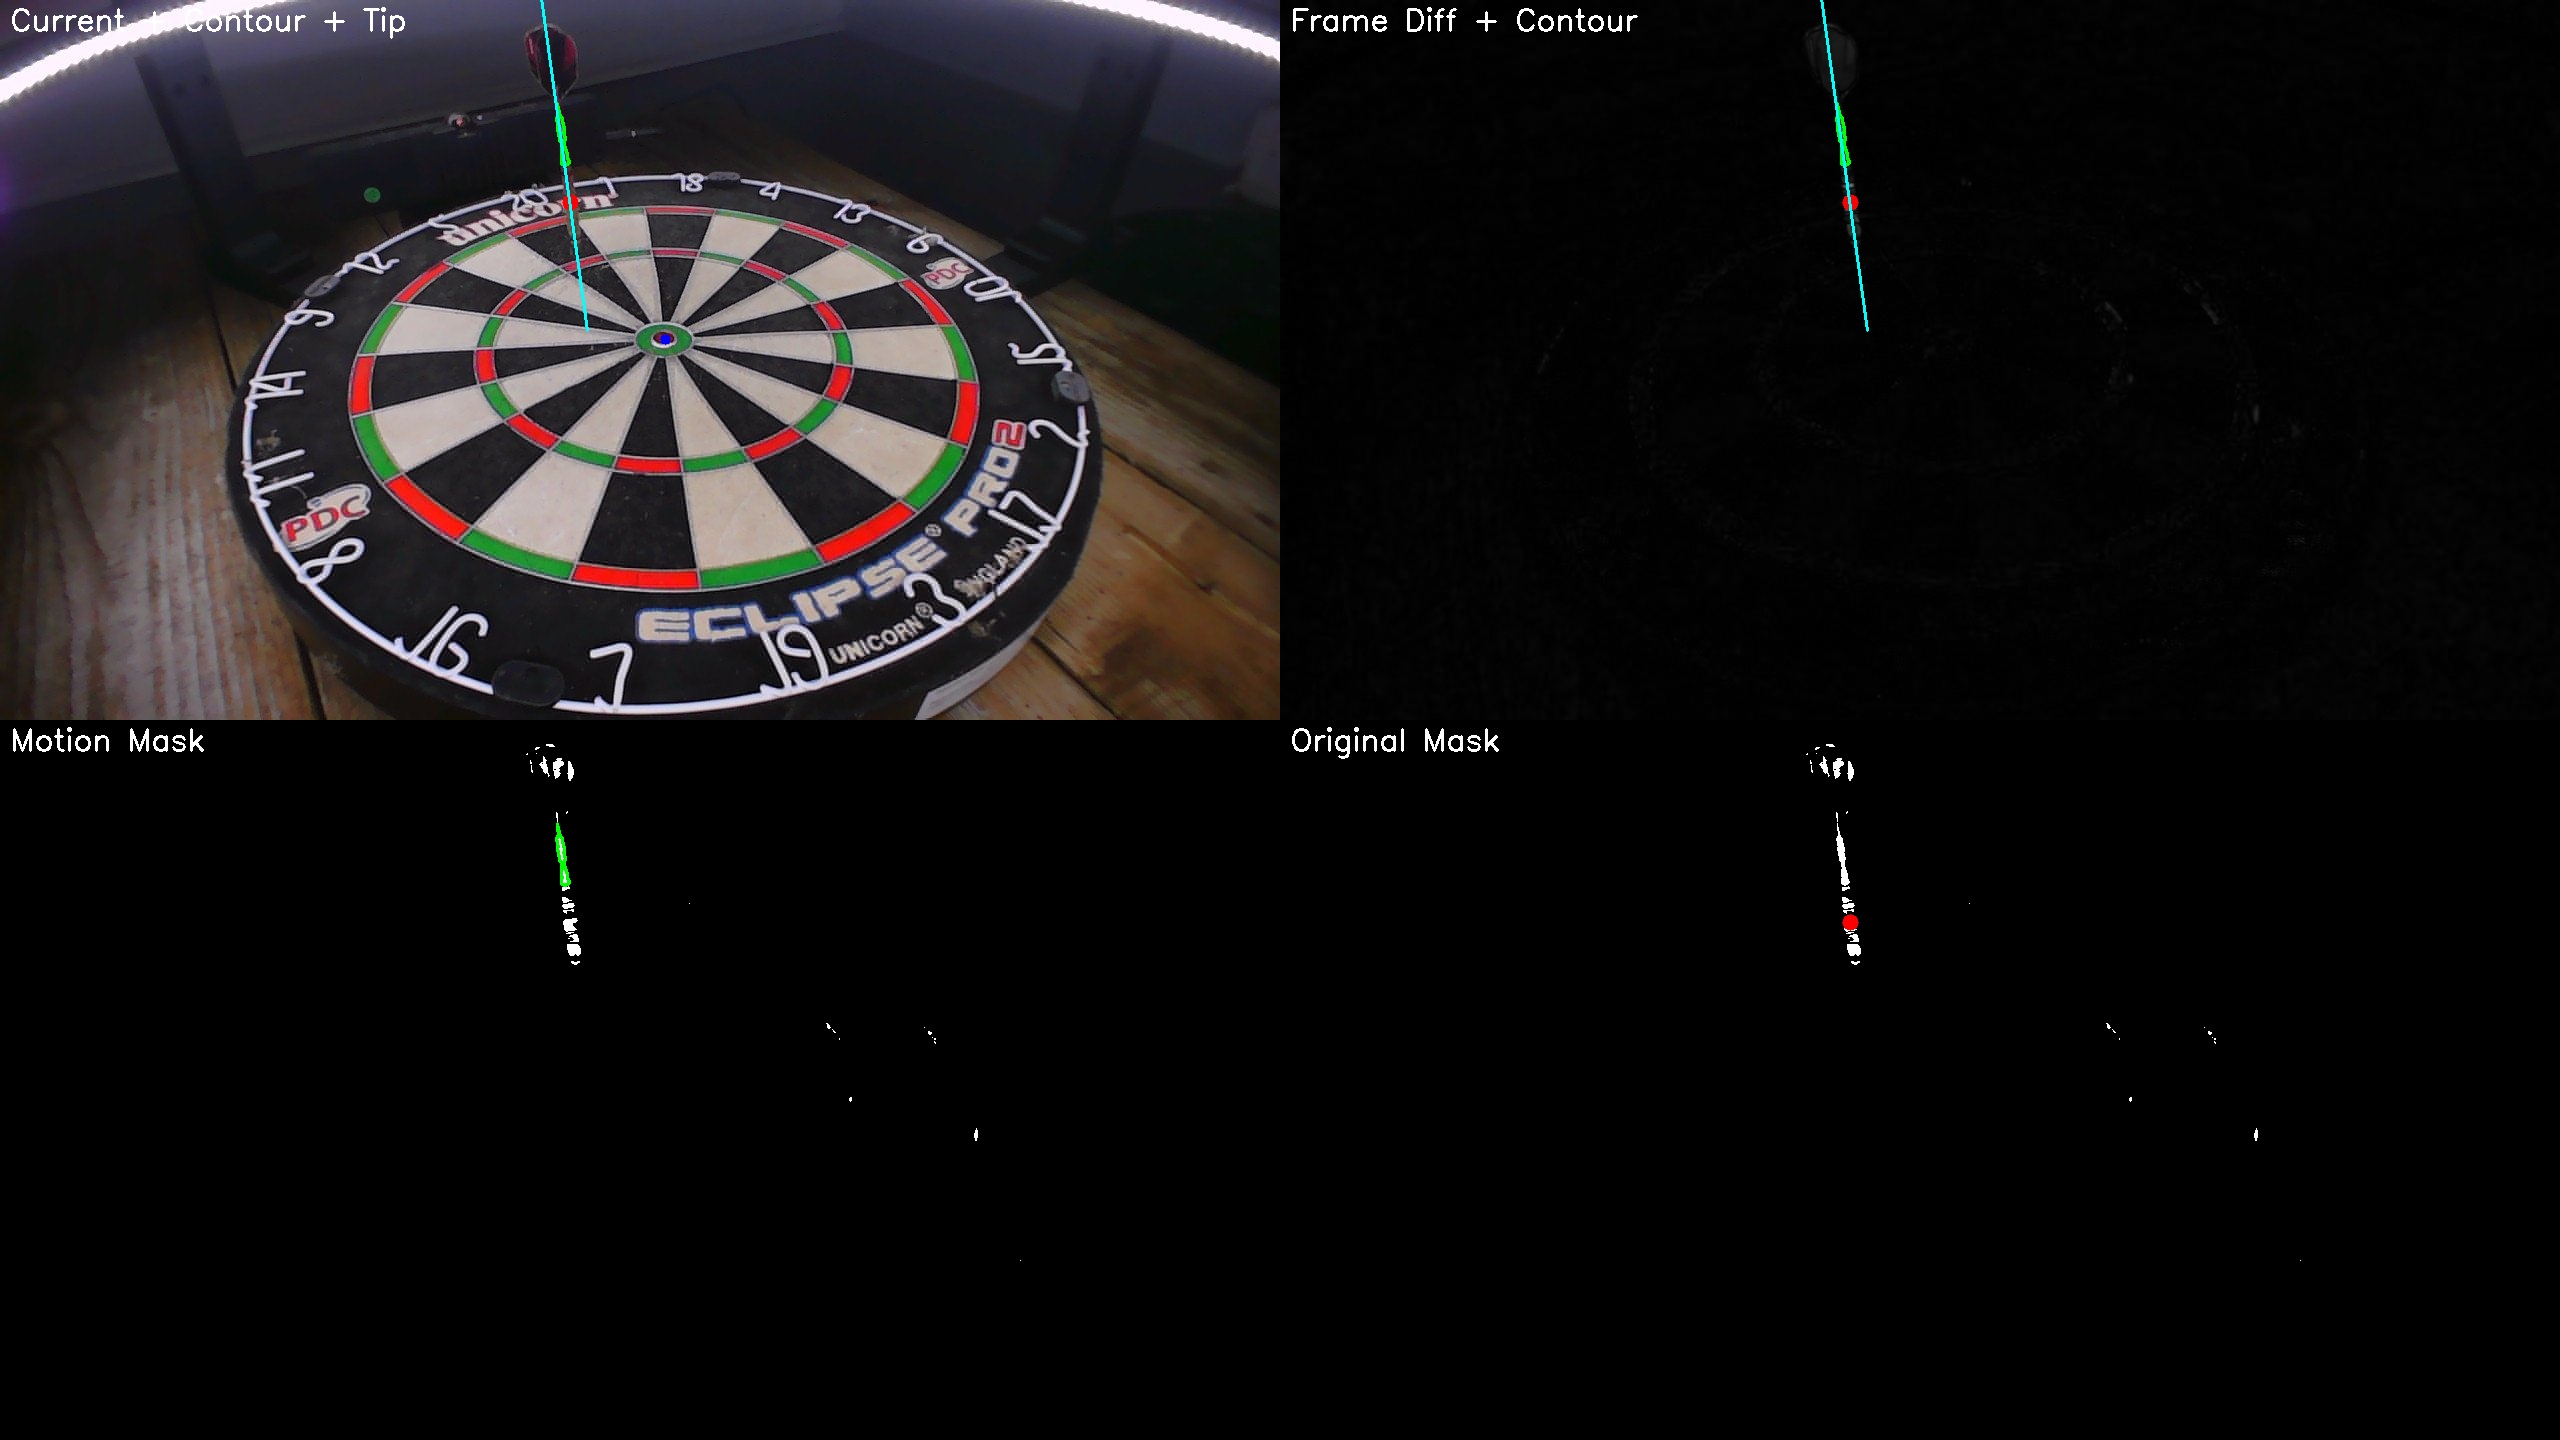
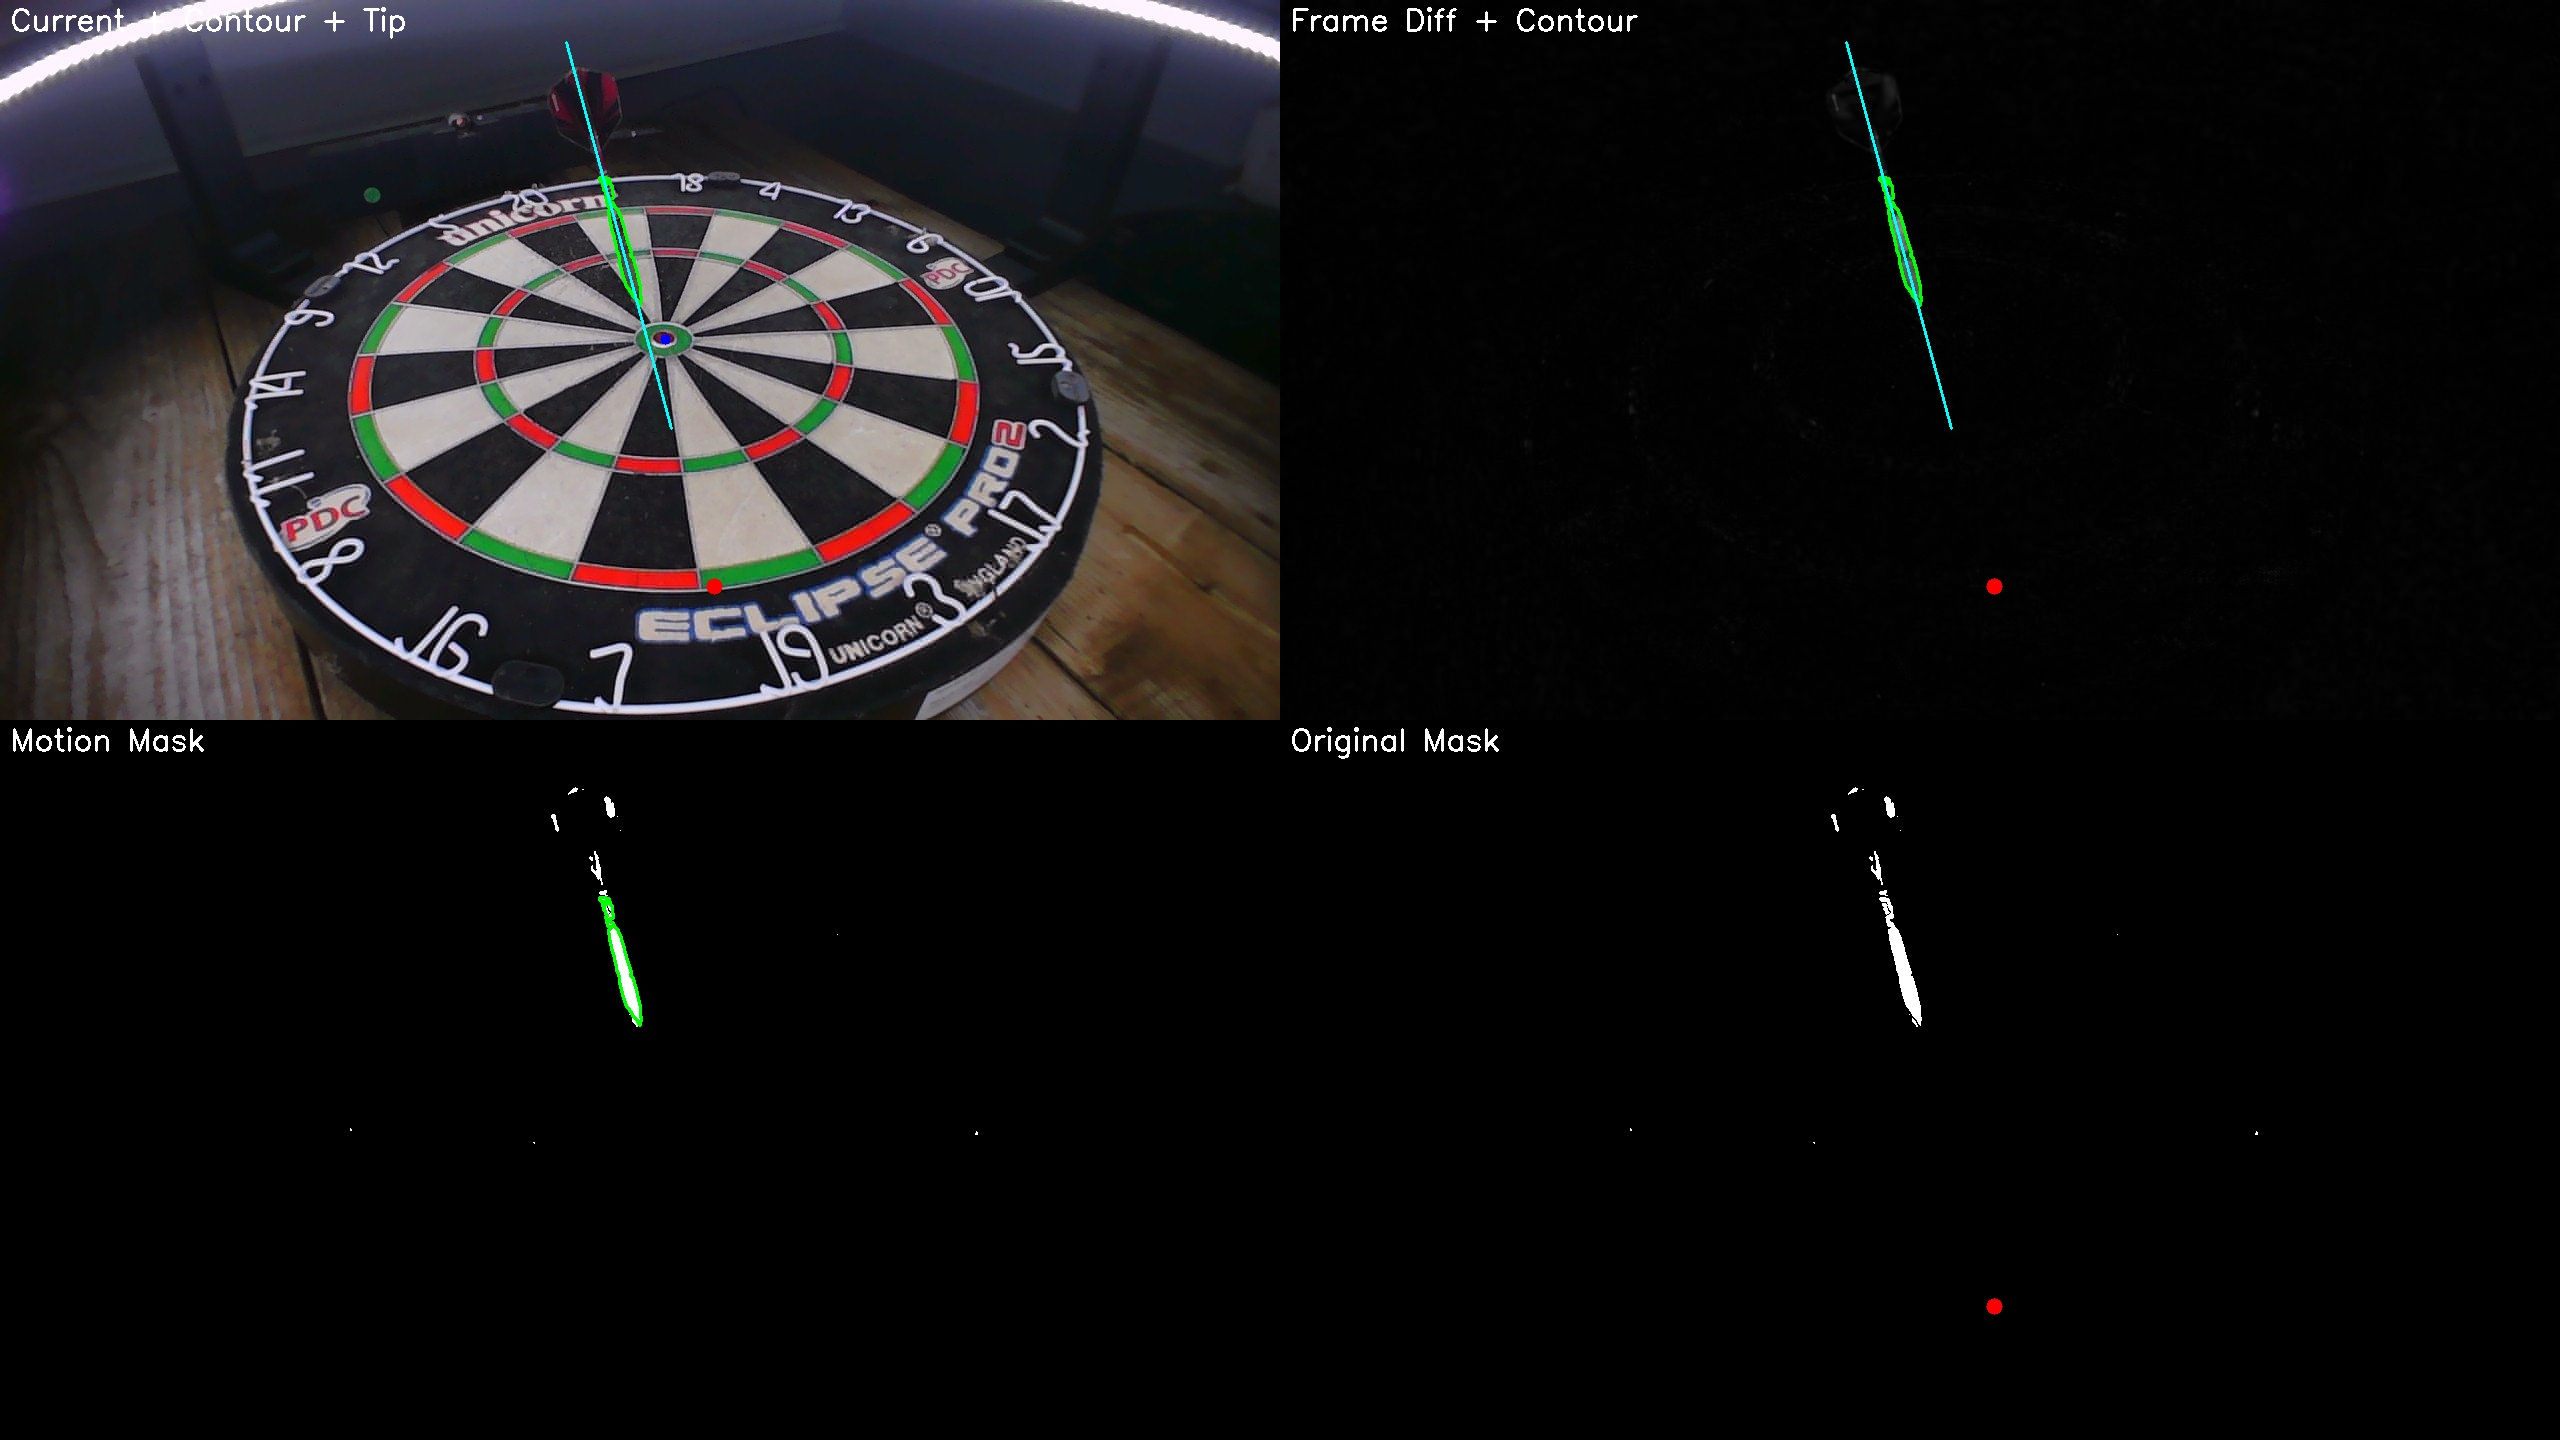
fix: use mask projection first, polygon only for edge/hidden tips

diff --git a/app/core/skeleton_detection.py b/app/core/skeleton_detection.py
@@ -744,32 +744,37 @@ def detect_dart_skeleton(
         # Find which endpoint is the tip (inside board boundary)
         skeleton_tip = find_tip_endpoint(endpoints, line_params, board_center=center, board_radius=board_radius, dart_mask=dart_mask)
         
-        # Project centerline to board surface (even if tip not visible)
-        # Try polygon first (most accurate), then circle, then mask
-        tip = None
-        if hasattr(detect_dart_skeleton, '_polygon_cache') and camera_id in detect_dart_skeleton._polygon_cache:
-            polygon = detect_dart_skeleton._polygon_cache[camera_id]
-            tip = project_line_to_polygon(line_params, polygon, center, start_point=skeleton_tip)
+        # Project along dart centerline to find tip
+        # 1. First, walk along the mask to find where dart ends
+        tip = project_to_tip(skeleton_tip, line_params, original_mask, max_extend=100, board_center=center)
         
-        if tip is None and board_radius is not None:
-            tip = project_line_to_board(line_params, center, board_radius, start_point=skeleton_tip)
-        
-        if tip is None:
-            tip = project_to_tip(skeleton_tip, line_params, original_mask, max_extend=100, board_center=center)
+        # 2. If tip is OUTSIDE board (beyond polygon), use polygon intersection instead
+        #    This handles cases where tip is hidden behind wire or occluded
+        if tip is not None and board_radius is not None:
+            tip_dist = np.sqrt((tip[0] - center[0])**2 + (tip[1] - center[1])**2)
+            if tip_dist > board_radius * 0.95:  # Tip seems to be at/beyond board edge
+                # Try polygon intersection for more accuracy
+                if hasattr(detect_dart_skeleton, '_polygon_cache') and camera_id in detect_dart_skeleton._polygon_cache:
+                    polygon = detect_dart_skeleton._polygon_cache[camera_id]
+                    poly_tip = project_line_to_polygon(line_params, polygon, center, start_point=skeleton_tip)
+                    if poly_tip is not None:
+                        tip = poly_tip
         result["tip"] = tip
         result["confidence"] = 0.8
         
     elif len(endpoints) == 1:
-        tip = None
-        if hasattr(detect_dart_skeleton, '_polygon_cache') and camera_id in detect_dart_skeleton._polygon_cache:
-            polygon = detect_dart_skeleton._polygon_cache[camera_id]
-            tip = project_line_to_polygon(line_params, polygon, center, start_point=endpoints[0])
+        # Walk along mask to find tip
+        tip = project_to_tip(endpoints[0], line_params, original_mask, max_extend=100, board_center=center)
         
-        if tip is None and board_radius is not None and line_params is not None:
-            tip = project_line_to_board(line_params, center, board_radius, start_point=endpoints[0])
-        
-        if tip is None:
-            tip = project_to_tip(endpoints[0], line_params, original_mask, max_extend=100, board_center=center)
+        # Use polygon only if tip seems to be at board edge
+        if tip is not None and board_radius is not None:
+            tip_dist = np.sqrt((tip[0] - center[0])**2 + (tip[1] - center[1])**2)
+            if tip_dist > board_radius * 0.95:
+                if hasattr(detect_dart_skeleton, '_polygon_cache') and camera_id in detect_dart_skeleton._polygon_cache:
+                    polygon = detect_dart_skeleton._polygon_cache[camera_id]
+                    poly_tip = project_line_to_polygon(line_params, polygon, center, start_point=endpoints[0])
+                    if poly_tip is not None:
+                        tip = poly_tip
         result["tip"] = tip
         result["confidence"] = 0.6
     else:
